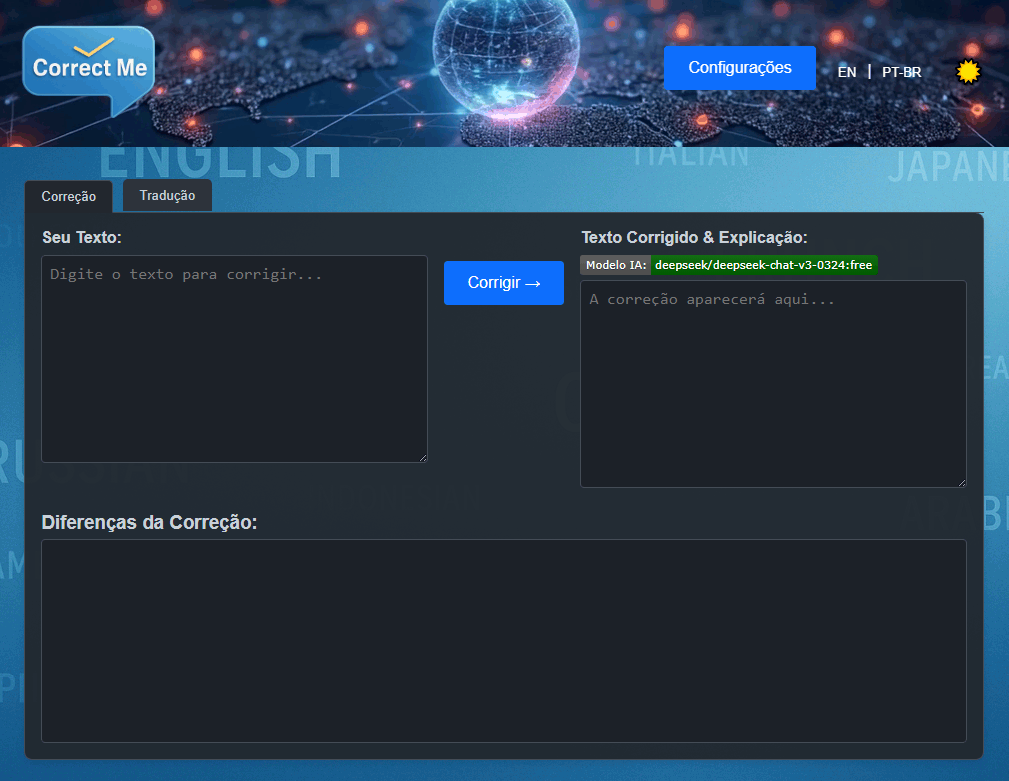
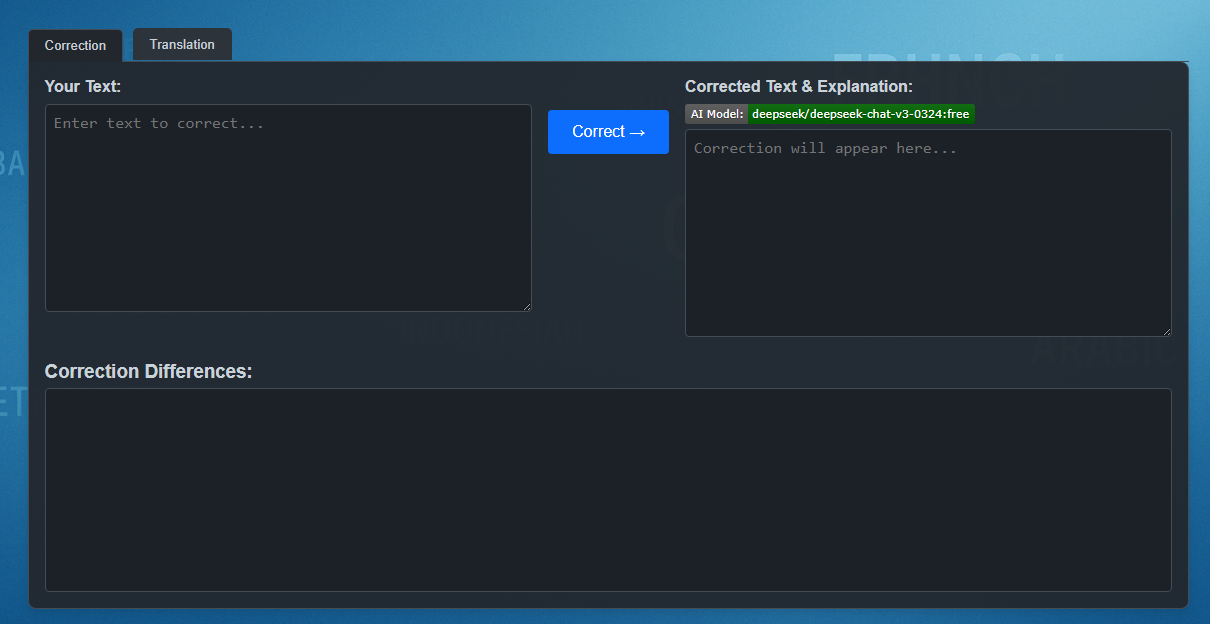
Design improvements

diff --git a/style.css b/style.css
@@ -104,27 +104,25 @@ body {
 }
 
 header {
-    background-color: var(--header-bg);
+    background: linear-gradient(135deg, #1e90ff 0%, #00bfff 50%, #87cefa 100%);
     color: var(--header-text);
     padding: 0 1rem; /* Add horizontal padding back */
     display: flex;
     justify-content: space-between; /* Push logo/title left, settings right */
     align-items: center;
     position: relative; /* Needed for absolute positioning of content */
-    overflow: hidden; /* Hide video overflow */
-    height: 150px; /* Example height, adjust as needed */
+    overflow: hidden; /* Hide overflow */
+    height: 200px; /* Example height, adjust as needed */
 }
 
-#header-video {
-    position: absolute;
-    top: 50%;
-    left: 50%;
-    width: auto;
-    height: 100%; /* Make video fill header height */
-    min-width: 100%; /* Ensure video covers width */
-    transform: translate(-50%, -50%);
-    z-index: 0; /* Place video behind content */
-    object-fit: cover; /* Cover the area, cropping if needed */
+
+.topo {
+    width: 98%;
+    float: center;
+    background: url('../imagens/banner.png');
+    background-size: cover;
+    background-position: center; /* Centraliza a imagem */
+    background-repeat: repeat; /* Não repete a imagem */
 }
 
 #app-logo {
@@ -134,7 +132,7 @@ header {
     z-index: 1;
 }
 
-header h1, .settings-area {
+header h1 { /* Removed .settings-area from this rule */
     position: relative; /* Bring content above video */
     z-index: 1;
     color: white; /* Ensure text is visible over video */
@@ -154,9 +152,16 @@ h2 {
 }
 
 .settings-area {
+    position: fixed; /* Fix position relative to the viewport */
+    top: 1rem;       /* Distance from the top */
+    right: 1rem;      /* Distance from the right */
+    z-index: 1000;    /* Ensure it's above most other elements */
     display: flex;
     align-items: center;
     gap: 1rem; /* Space between items */
+    background-color: rgba(0, 0, 0, 0.5); /* Optional: Add a subtle background for better visibility */
+    padding: 0.5rem;
+    border-radius: 5px;
 }
 
 /* .settings-area padding is handled by header padding now */
@@ -186,23 +191,6 @@ h2 {
 }
 #theme-toggle-button:hover {
     background: var(--theme-toggle-hover-bg);
-}
-
-/* Style for the new video play/pause button */
-#video-play-pause-button {
-    background: var(--theme-toggle-bg); /* Same background as theme toggle */
-    border: none;
-    color: white; /* Ensure icon is visible */
-    cursor: pointer;
-    font-size: 1.5rem; /* Match theme toggle size */
-    text-shadow: 1px 1px 3px rgba(0,0,0,0.7); /* Match theme toggle shadow */
-    padding: 0.2rem 0.5rem; /* Match theme toggle padding */
-    border-radius: 4px; /* Match theme toggle radius */
-    line-height: 1; /* Match theme toggle line height */
-}
-
-#video-play-pause-button:hover {
-    background: var(--theme-toggle-hover-bg); /* Same hover as theme toggle */
 }
 
 

diff --git a/index.html b/index.html
@@ -7,9 +7,8 @@
     <link rel="stylesheet" href="style.css">
 </head>
 <body data-theme="light"> <!-- Default theme, managed by JS -->
-    <header>
+    <header class="topo" style="background-image: url('images/banner.png');">
         <img id="app-logo" src="images/CorrectMe_Logo.png" alt="CorrectMe Logo">
-        <video id="header-video" src="media/header.mp4" autoplay loop muted playsinline></video>
         <!-- <h1 data-i18n="appTitle">CorrectMe Web</h1> -->
         <!-- Placeholder for settings/language switch -->
          <div class="settings-area">
@@ -18,7 +17,6 @@
                  <button id="lang-en">EN</button> | <button id="lang-pt-br">PT-BR</button>
              </div>
              <button id="theme-toggle-button" aria-label="Toggle theme">🌙</button> <!-- Theme Toggle Button -->
-             <button id="video-play-pause-button" aria-label="Play/Pause Header Video">⏸</button> <!-- Video Play/Pause Button -->
          </div>
      </header>
 
